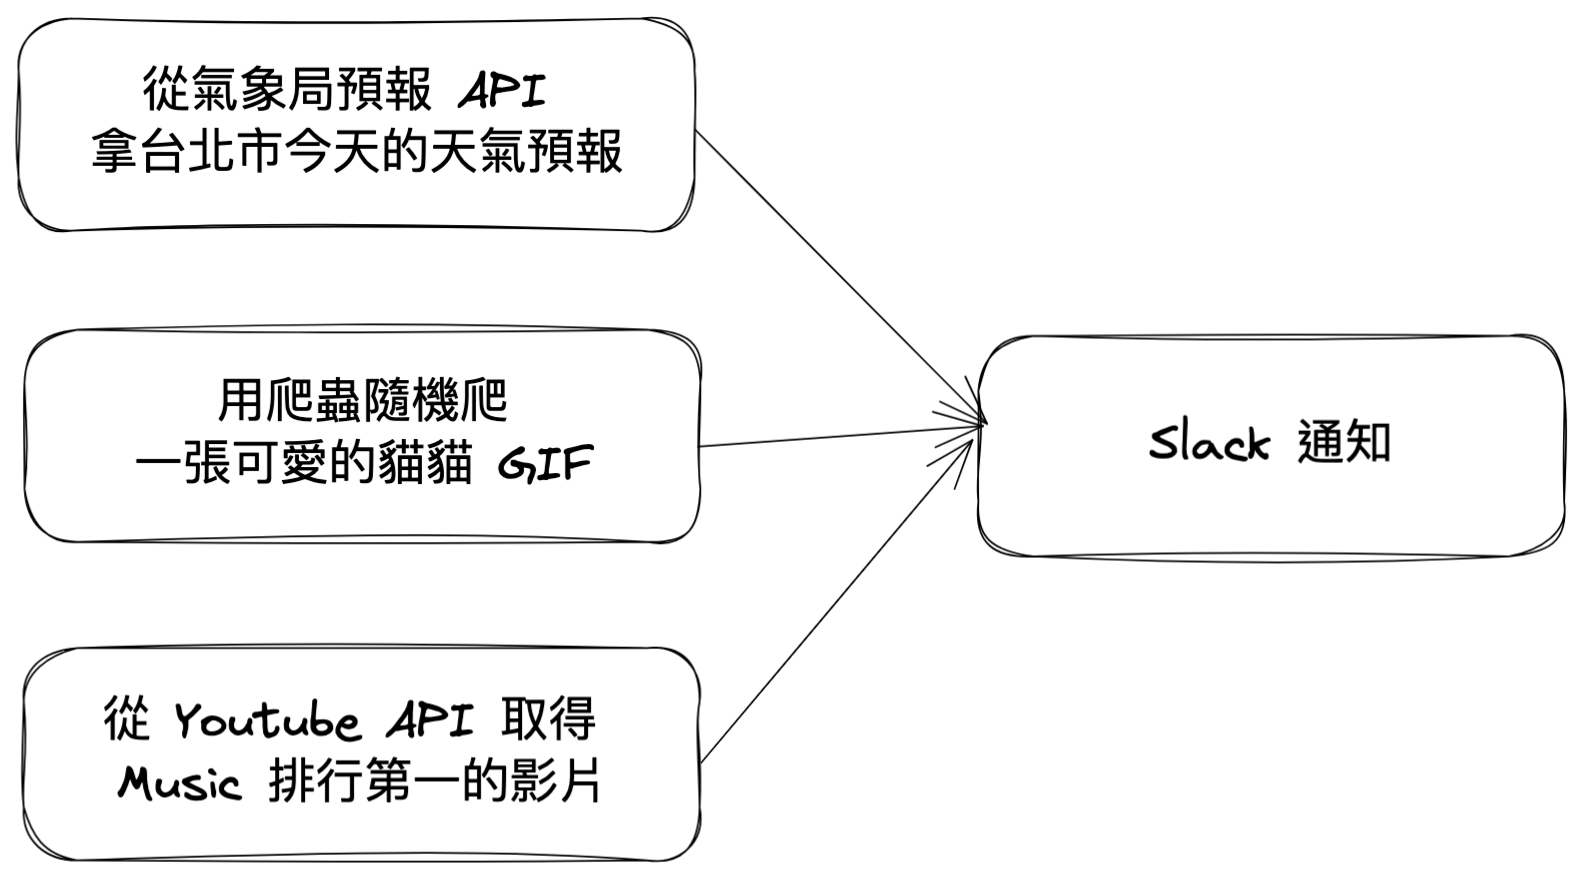
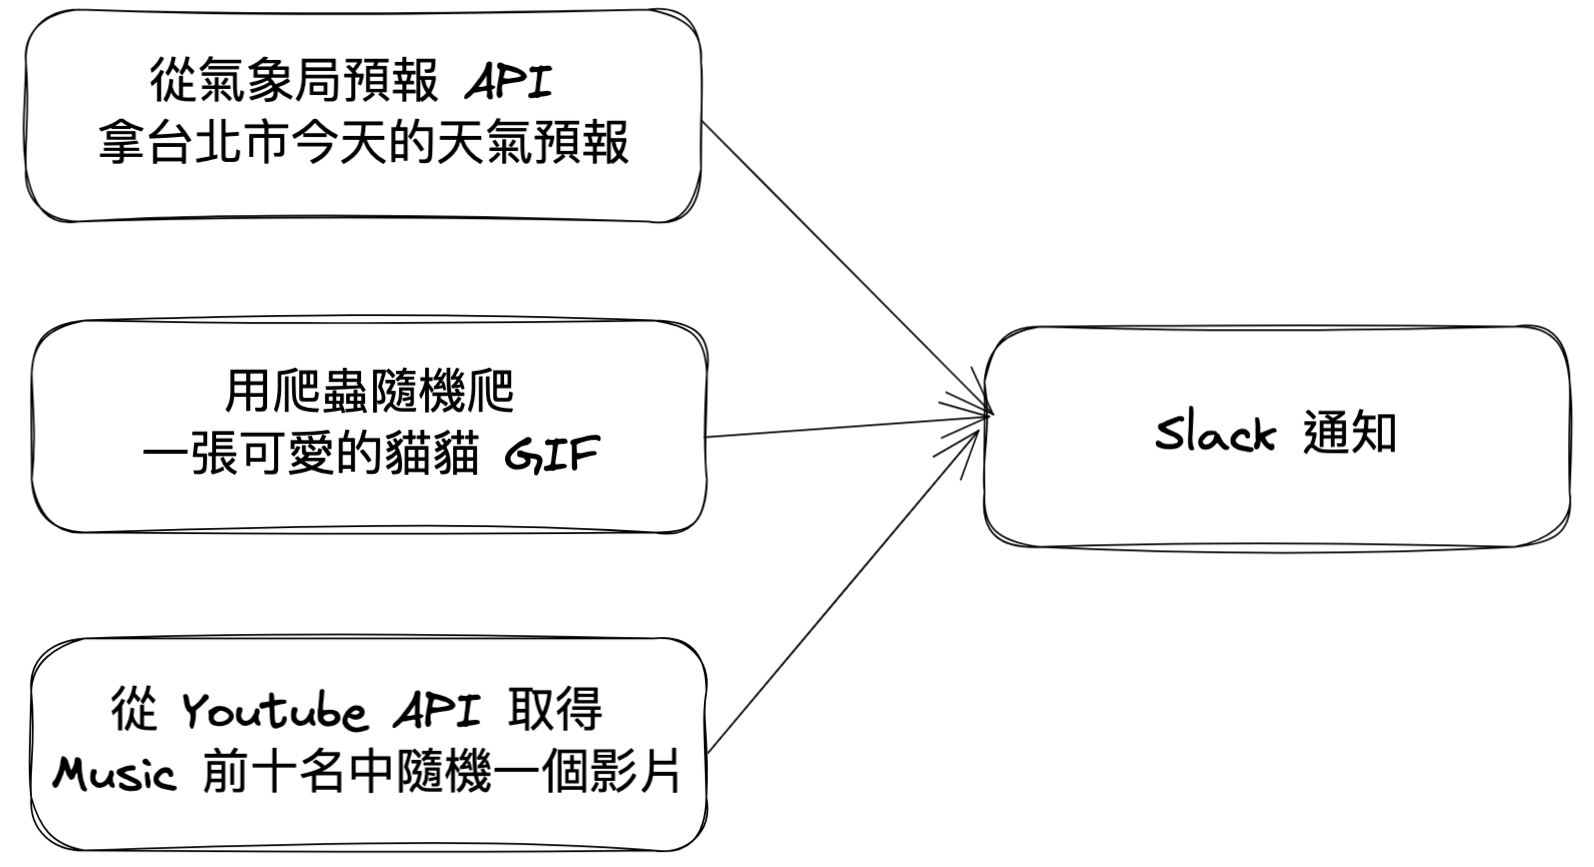
feat: sample 1 music from top 10

diff --git a/src/top_music.py b/src/top_music.py
@@ -1,6 +1,8 @@
 import requests
 import json
 
+import numpy as np
+
 from config import YOUTUBE_API_KEY
 from utils.utils import textToTxt
 
@@ -13,8 +15,9 @@ def getTopSongInfo():
     url = f"https://youtube.googleapis.com/youtube/v3/videos?part=snippet%2CcontentDetails%2Cstatistics&chart=mostPopular&regionCode=TW&videoCategoryId=10&key={YOUTUBE_API_KEY}"
 
     response = requests.get(url)
-    topSong = json.loads(response.text)['items'][0]
+    randomIndex = np.random.choice(np.arange(10))
+    topSong = json.loads(response.text)['items'][randomIndex]
     video_id = topSong['id']
     title = topSong['snippet']['title']
     video_url = f'https://www.youtube.com/watch?v={video_id}'
-    return f"今天 Youtube Trend Music Top 1: {title} ({video_url})"
+    return f"今天 Youtube Trend Music: {title} ({video_url})"
